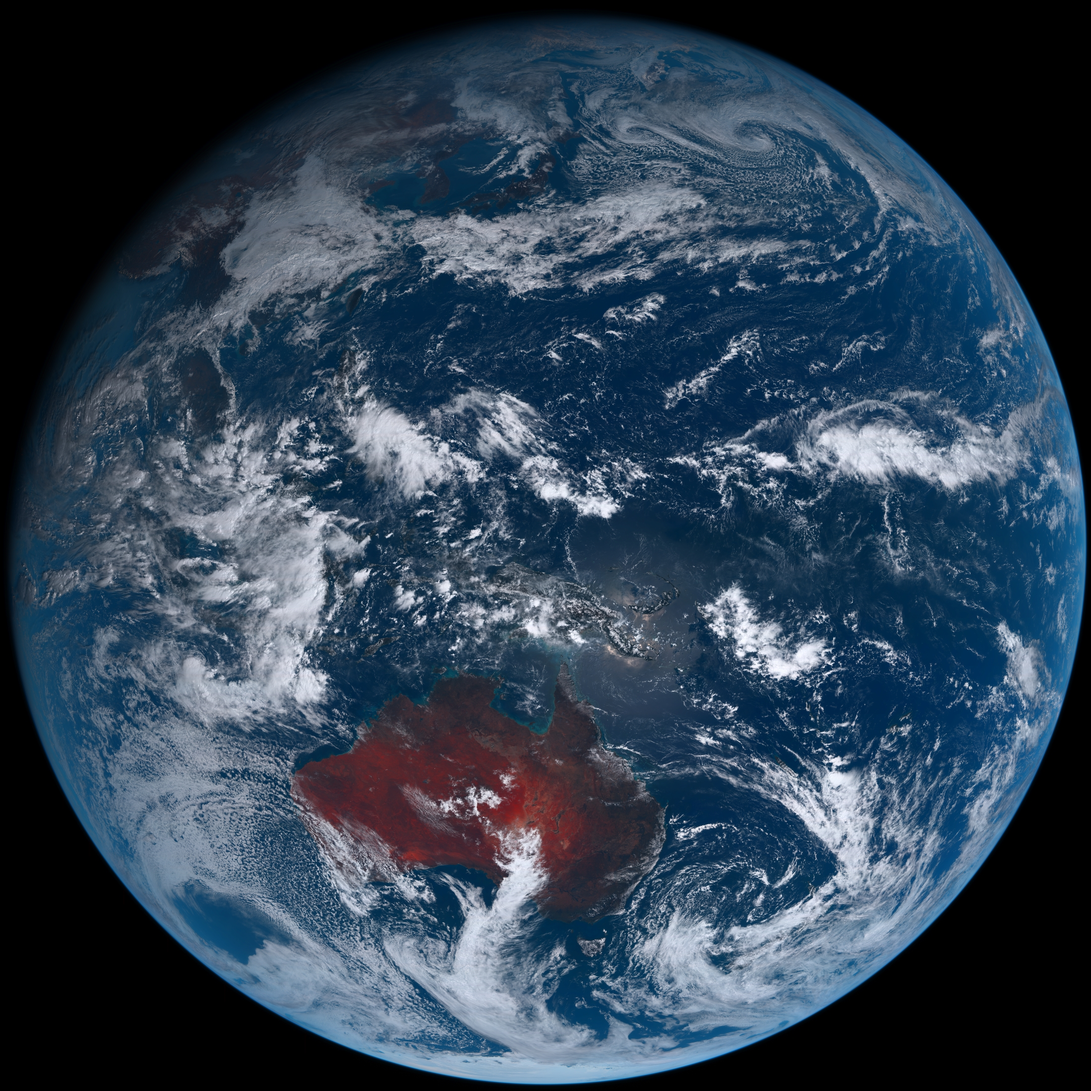
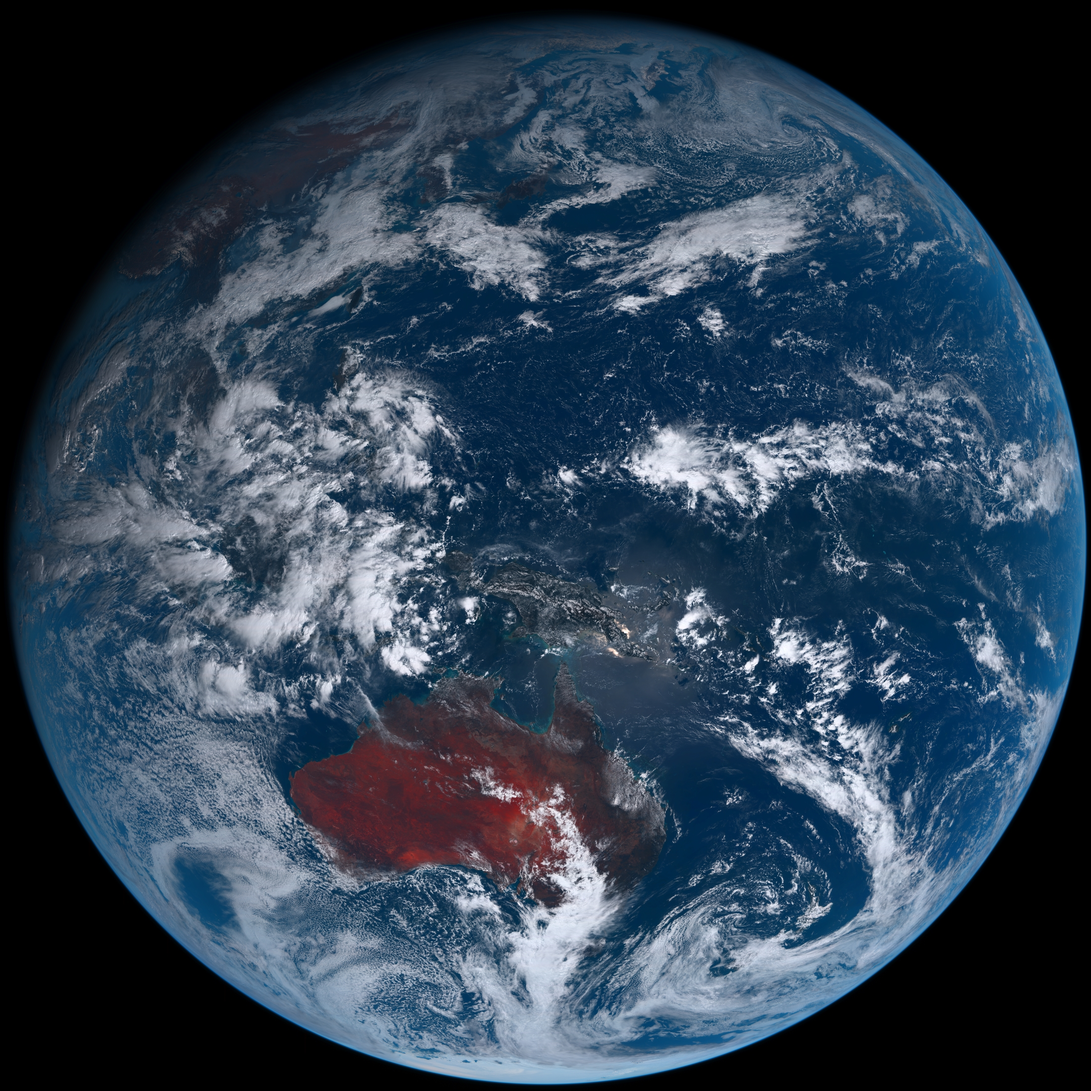
Saturday 11/19/2022 03:36 +00

diff --git a/README.md b/README.md
@@ -1,12 +1,12 @@
 # ps1
 
 - ### [BingWallpaper](https://github.com/milankomaj/ps1/wiki/BingWallpaper)  [![Generate Wallpapers Github README.md](https://github.com/milankomaj/ps1/actions/workflows/GenWall.yml/badge.svg?event=schedule)](https://github.com/milankomaj/ps1/actions/workflows/GenWall.yml)
-- ##### Friday 18/11/2022 03:37:16 +00
+- ##### Saturday 19/11/2022 03:35:19 +00
 <img src="BingWallpaper/latest.jpg" width="700" height="auto" title="👉  BingWallpaper  👈">
 
 
 - ### [Himawari](https://github.com/milankomaj/ps1/wiki/Himawari) [![Generate Wallpapers Github README.md](https://github.com/milankomaj/ps1/actions/workflows/GenWall.yml/badge.svg?event=schedule)](https://github.com/milankomaj/ps1/actions/workflows/GenWall.yml) [![Video](https://github.com/milankomaj/ps1/actions/workflows/video.yml/badge.svg?event=schedule)](https://github.com/milankomaj/ps1/actions/workflows/video.yml)
-- ##### Friday 18/11/2022 03:37:52 +00
+- ##### Saturday 19/11/2022 03:35:54 +00
 <img src="Himawari/latest.jpg" width="auto" height="371" title="👉  Himawari  👈"> <img src="Himawari/pifd/himawari_pifd.webp" width="auto" height="371"/>
 
 
